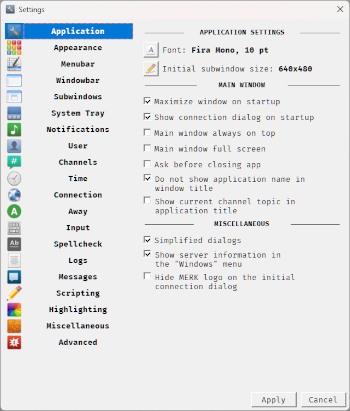
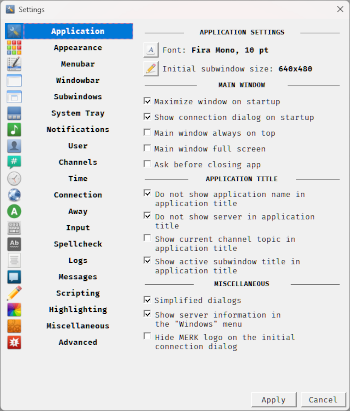
Tweaks to the settings dialog

diff --git a/README.html b/README.html
@@ -1,4 +1,4 @@
-<h1>MERK 0.050.612</h1>
+<h1>MERK 0.050.613</h1>
 
 <p><a href="https://github.com/nutjob-laboratories/merk">Official source code repository</a></p>
 <h1 id="table-of-contents">Table of contents</h1>
@@ -14,7 +14,7 @@
 <li><a href="#does-merk-need-any-help">Does MERK need any help?</a></li>
 </ul>
 <h1 id="summary">Summary</h1>
-<p><strong>MERK</strong> is a graphical <a href="https://www.gnu.org/licenses/gpl-3.0.en.html">open source</a> <a href="https://en.wikipedia.org/wiki/Internet_Relay_Chat">Internet relay chat</a> client. The current development version is <strong>0.050.612</strong>. It uses a <a href="https://en.wikipedia.org/wiki/Multiple-document_interface">multiple-document interface</a>, much like the popular Windows IRC client <a href="https://www.mirc.com/">mIRC</a>.  <strong>MERK</strong> is written in Python 3, using the <a href="https://pypi.org/project/PyQt5/">PyQt5</a> and <a href="https://twistedmatrix.com/trac/">Twisted</a> libraries, and runs on both Windows and Linux. <strong>MERK</strong> is updated frequently with new features and bugfixes.</p>
+<p><strong>MERK</strong> is a graphical <a href="https://www.gnu.org/licenses/gpl-3.0.en.html">open source</a> <a href="https://en.wikipedia.org/wiki/Internet_Relay_Chat">Internet relay chat</a> client. The current development version is <strong>0.050.613</strong>. It uses a <a href="https://en.wikipedia.org/wiki/Multiple-document_interface">multiple-document interface</a>, much like the popular Windows IRC client <a href="https://www.mirc.com/">mIRC</a>.  <strong>MERK</strong> is written in Python 3, using the <a href="https://pypi.org/project/PyQt5/">PyQt5</a> and <a href="https://twistedmatrix.com/trac/">Twisted</a> libraries, and runs on both Windows and Linux. <strong>MERK</strong> is updated frequently with new features and bugfixes.</p>
 <p><strong>MERK</strong> is still in development, but it works, and can be used for most IRC activities.</p>
 <p>Join me on the official <strong>MERK</strong> IRC channel, <strong>#merk</strong> on the Libera Chat network! Connect to  Libera in the client as one of the built-in server suggestions, or at <strong>irc.libera.chat</strong>, port <strong>6667</strong> (you can also connect via SSL on port <strong>6697</strong>). Honestly, I work a lot, so I&#39;m almost always idle, but I pop in and chat a few times a day!</p>
 <h1 id="making-merk-portable-on-windows">Making MERK Portable on Windows</h1>

diff --git a/merk/resources/README.html b/merk/resources/README.html
@@ -1,4 +1,4 @@
-<h1>MERK 0.050.612</h1>
+<h1>MERK 0.050.613</h1>
 
 <p><a href="https://github.com/nutjob-laboratories/merk">Official source code repository</a></p>
 <h1 id="table-of-contents">Table of contents</h1>
@@ -14,7 +14,7 @@
 <li><a href="#does-merk-need-any-help">Does MERK need any help?</a></li>
 </ul>
 <h1 id="summary">Summary</h1>
-<p><strong>MERK</strong> is a graphical <a href="https://www.gnu.org/licenses/gpl-3.0.en.html">open source</a> <a href="https://en.wikipedia.org/wiki/Internet_Relay_Chat">Internet relay chat</a> client. The current development version is <strong>0.050.612</strong>. It uses a <a href="https://en.wikipedia.org/wiki/Multiple-document_interface">multiple-document interface</a>, much like the popular Windows IRC client <a href="https://www.mirc.com/">mIRC</a>.  <strong>MERK</strong> is written in Python 3, using the <a href="https://pypi.org/project/PyQt5/">PyQt5</a> and <a href="https://twistedmatrix.com/trac/">Twisted</a> libraries, and runs on both Windows and Linux. <strong>MERK</strong> is updated frequently with new features and bugfixes.</p>
+<p><strong>MERK</strong> is a graphical <a href="https://www.gnu.org/licenses/gpl-3.0.en.html">open source</a> <a href="https://en.wikipedia.org/wiki/Internet_Relay_Chat">Internet relay chat</a> client. The current development version is <strong>0.050.613</strong>. It uses a <a href="https://en.wikipedia.org/wiki/Multiple-document_interface">multiple-document interface</a>, much like the popular Windows IRC client <a href="https://www.mirc.com/">mIRC</a>.  <strong>MERK</strong> is written in Python 3, using the <a href="https://pypi.org/project/PyQt5/">PyQt5</a> and <a href="https://twistedmatrix.com/trac/">Twisted</a> libraries, and runs on both Windows and Linux. <strong>MERK</strong> is updated frequently with new features and bugfixes.</p>
 <p><strong>MERK</strong> is still in development, but it works, and can be used for most IRC activities.</p>
 <p>Join me on the official <strong>MERK</strong> IRC channel, <strong>#merk</strong> on the Libera Chat network! Connect to  Libera in the client as one of the built-in server suggestions, or at <strong>irc.libera.chat</strong>, port <strong>6667</strong> (you can also connect via SSL on port <strong>6697</strong>). Honestly, I work a lot, so I&#39;m almost always idle, but I pop in and chat a few times a day!</p>
 <h1 id="making-merk-portable-on-windows">Making MERK Portable on Windows</h1>

diff --git a/merk/dialog/settings.py b/merk/dialog/settings.py
@@ -1567,6 +1567,7 @@ class Dialog(QDialog):
 		applicationLayout.addWidget(self.alwaysOnTop)
 		applicationLayout.addWidget(self.fullScreen)
 		applicationLayout.addWidget(self.askBeforeExit)
+		applicationLayout.addWidget(widgets.textSeparatorLabel(self,"<b>application title</b>"))
 		applicationLayout.addWidget(self.noAppNameTitle)
 		applicationLayout.addWidget(self.noShowServerTitle)
 		applicationLayout.addWidget(self.showTopicInTitle)

diff --git a/merk/resources/version.py b/merk/resources/version.py
@@ -1,1 +1,1 @@
-APPLICATION_VERSION = "0.050.612"
+APPLICATION_VERSION = "0.050.613"

diff --git a/README.md b/README.md
@@ -3,7 +3,7 @@
   <b><big>Open Source IRC Client</big></b><br>
   <i>A multiple-document interface IRC client for Windows and Linux</i><br>
   <b><big>Current stable release: <a href="https://github.com/nutjob-laboratories/merk/releases/tag/0.050.600">MERK 0.050.600</a></big></b><br>
-  <b>Current development version: 0.050.612</b><br><br>
+  <b>Current development version: 0.050.613</b><br><br>
   <b><a href="https://gofund.me/ae062139">Help Fund MERK!</a></b><br>
 </p>
 
@@ -30,13 +30,13 @@ All files are packed in [ZIP archive files](https://en.wikipedia.org/wiki/ZIP_(f
 | :----:    | :----:    | :----:    |
 | User Guide |  PDF  | [MERK User Guide](./MERK_User_Guide.pdf)  |
 | Current Release |  -  | [MERK 0.050.600 Release](https://github.com/nutjob-laboratories/merk/releases/tag/0.050.600)  |
-| Zip Archive|  Cross-platform  | [Download MERK 0.050.612 (12.00 MB)](https://www.dropbox.com/scl/fi/pf9p7ltb3uufm5akjz7l0/merk-latest.zip?rlkey=3caodopybbcxr4p9grxygxzym&st=01zsuura&dl=1)  |
-| Zip Archive|  Windows EXE | [Download MERK 0.050.612 (48.83 MB)](https://www.dropbox.com/scl/fi/4w9ufyknzac24o06710bi/merk-windows-latest.zip?rlkey=zmir67l3klg8mw0omxayzmssc&st=vb69tsdi&dl=1)|
-|   Windows Installer|  Windows Setup | [Download MERK 0.050.612 (45.94 MB)](https://www.dropbox.com/scl/fi/0u1vcg5xuntzs2b16e01b/merk_setup.zip?rlkey=8avj1gyed3txz1nfj9ev41mmh&st=zlve4c1o&dl=1)|
+| Zip Archive|  Cross-platform  | [Download MERK 0.050.613 (12.00 MB)](https://www.dropbox.com/scl/fi/pf9p7ltb3uufm5akjz7l0/merk-latest.zip?rlkey=3caodopybbcxr4p9grxygxzym&st=01zsuura&dl=1)  |
+| Zip Archive|  Windows EXE | [Download MERK 0.050.613 (48.83 MB)](https://www.dropbox.com/scl/fi/4w9ufyknzac24o06710bi/merk-windows-latest.zip?rlkey=zmir67l3klg8mw0omxayzmssc&st=vb69tsdi&dl=1)|
+|   Windows Installer|  Windows Setup | [Download MERK 0.050.613 (45.94 MB)](https://www.dropbox.com/scl/fi/0u1vcg5xuntzs2b16e01b/merk_setup.zip?rlkey=8avj1gyed3txz1nfj9ev41mmh&st=zlve4c1o&dl=1)|
 
 # Summary
   
-**MERK** is a graphical [open source](https://www.gnu.org/licenses/gpl-3.0.en.html) [Internet relay chat](https://en.wikipedia.org/wiki/Internet_Relay_Chat) client. The current development version is **0.050.612**. It uses a [multiple-document interface](https://en.wikipedia.org/wiki/Multiple-document_interface), much like the popular Windows IRC client [mIRC](https://www.mirc.com/).  **MERK** is written in Python 3, using the [PyQt5](https://pypi.org/project/PyQt5/) and [Twisted](https://twistedmatrix.com/trac/) libraries, and runs on both Windows and Linux. **MERK** is updated frequently with new features and bugfixes.
+**MERK** is a graphical [open source](https://www.gnu.org/licenses/gpl-3.0.en.html) [Internet relay chat](https://en.wikipedia.org/wiki/Internet_Relay_Chat) client. The current development version is **0.050.613**. It uses a [multiple-document interface](https://en.wikipedia.org/wiki/Multiple-document_interface), much like the popular Windows IRC client [mIRC](https://www.mirc.com/).  **MERK** is written in Python 3, using the [PyQt5](https://pypi.org/project/PyQt5/) and [Twisted](https://twistedmatrix.com/trac/) libraries, and runs on both Windows and Linux. **MERK** is updated frequently with new features and bugfixes.
 
 **MERK** is still in development, but it works, and can be used for most IRC activities. [The current stable release of **MERK** is version 0.050.600](https://github.com/nutjob-laboratories/merk/releases/tag/0.050.600). **MERK** has a user guide, which can be [viewed here](./MERK_User_Guide.pdf).
 
@@ -118,7 +118,7 @@ There are three libraries that comes bundled with **MERK**:
 
 # Screenshots
 
-<p><small><i>Screenshots may not reflect the current release (0.050.600), and may reflect the current development version (0.050.612). More screenshots are in the <a href="./MERK_User_Guide.pdf">MERK User Guide</a>.</i></small></p>
+<p><small><i>Screenshots may not reflect the current release (0.050.600), and may reflect the current development version (0.050.613). More screenshots are in the <a href="./MERK_User_Guide.pdf">MERK User Guide</a>.</i></small></p>
 
 <p align="center">
 <center><a href="./graphics/screenshot_big.png"><img src="./graphics/screenshot1.png"></a></center></br>
